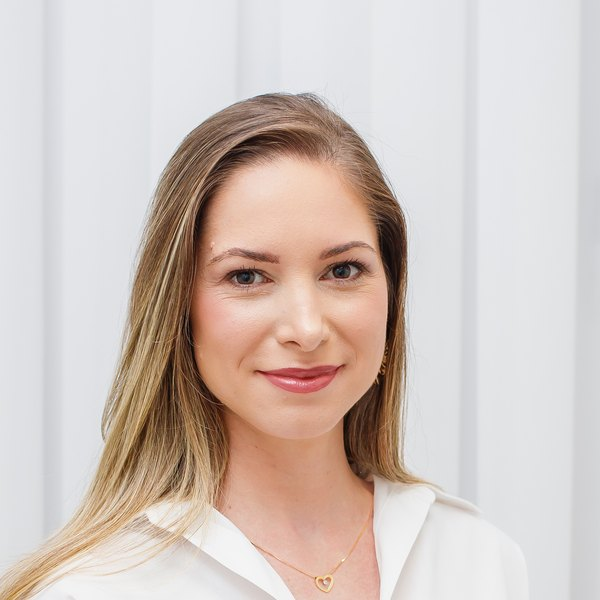
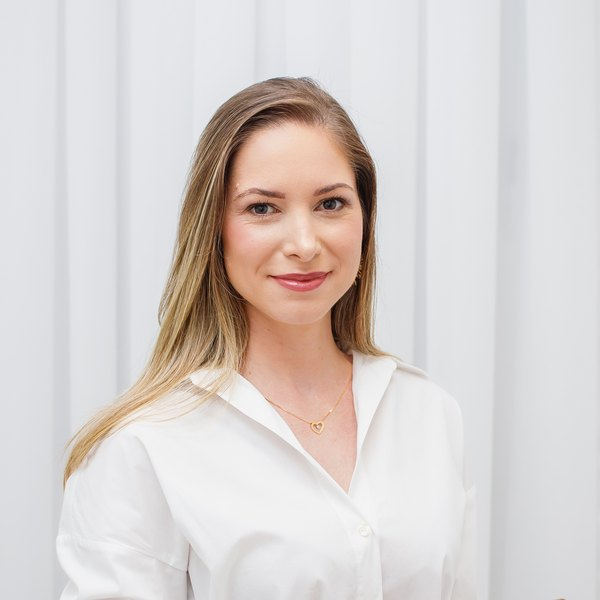
feat(T1): enquadramento mais aberto da foto e toque avanca direto
Foto: recorte de 2000px pra 2800px sobre o original — entram ombros e a
camisa, em vez do rosto ocupando o circulo inteiro. Segue 600x600 no
arquivo final (32 KB, ficou ate menor: menos detalhe de pele por pixel).

Eco removido da T1: tocar numa faixa de idade agora vai direto pra
proxima tela, sem a frase de auto-relevancia no meio. Sai tambem a copy
`echo` das opcoes da T1 (virou texto morto), a classe .echo-in do CSS e
o ramo de 1,5s do timer — sobrou um delay de 300ms, que nao e espera: e
o tempo de a opcao acender antes da tela trocar, senao o toque parece
erro de clique. O eco das telas de dentro (SelectScreen) segue intacto.

Conferido em iframe de largura real: 180ms apos o toque nao ha eco na
tela, e em 600ms a resposta esta gravada (answers[1]) e o quiz ja esta
na T3.

diff --git a/src/components/quiz/screens/LandingScreen.tsx b/src/components/quiz/screens/LandingScreen.tsx
@@ -73,9 +73,6 @@ export function LandingScreen({
   const options = content.options ?? [];
   const selected =
     clicked ?? (restore && onLanding ? (stored ?? null) : null);
-  const echo = selected
-    ? (options.find((o) => o.id === selected)?.echo ?? null)
-    : null;
 
   function choose(opt: Option) {
     if (clicked) return; // trava toque duplo enquanto o eco está na tela
@@ -94,15 +91,10 @@ export function LandingScreen({
       if (useQuiz.getState().index === 0) next();
     };
 
-    const reduced = prefersReduced();
-    if (opt.echo) {
-      // micro-recompensa de auto-relevância antes de avançar. Mais curta que a
-      // das telas de dentro (1,5s vs 2,1s): aqui é o primeiro toque da pessoa,
-      // e o que mais importa nesse ponto é a sensação de andar.
-      window.setTimeout(advance, reduced ? 500 : 1500);
-    } else {
-      window.setTimeout(advance, reduced ? 120 : 380);
-    }
+    // Toque → próxima tela, sem texto no meio. O delay curto não é espera: é o
+    // tempo de a opção acender e o toque virar resposta na cabeça de quem
+    // clicou. Sem ele a tela troca antes do dedo sair e parece erro de clique.
+    window.setTimeout(advance, prefersReduced() ? 120 : 300);
   }
 
   return (
@@ -181,16 +173,6 @@ export function LandingScreen({
             })}
           </div>
         </div>
-
-        {/* eco de auto-relevância depois da escolha */}
-        {echo && (
-          <p className="echo-in mt-4 flex max-w-md items-start gap-2 rounded-2xl bg-white/[0.06] px-4 py-3 text-left font-serif text-[0.95rem] italic leading-snug text-rose-suave">
-            <span className="not-italic text-rose" aria-hidden>
-              ✓
-            </span>
-            {echo}
-          </p>
-        )}
       </div>
     </div>
   );

diff --git a/src/lib/screens.ts b/src/lib/screens.ts
@@ -49,27 +49,13 @@ export const SCREENS: Screen[] = [
       subhead:
         "Responde as próximas perguntas e eu monto o seu caminho de volta ao prazer. Menos de 2 minutos, só entre nós, suas respostas são privadas.",
       prompt: "Vamos começar. Me conta primeiro: qual a sua idade?",
+      // Sem `echo` aqui de propósito (02/08): na T1 o toque avança direto, sem
+      // texto no meio. O eco das telas de dentro continua funcionando normal.
       options: [
-        {
-          id: "29-",
-          label: "Menos de 29",
-          echo: "Antes dos 29, o desejo raramente vem pronto, ele é aprendido. Dá pra começar certo.",
-        },
-        {
-          id: "29-39",
-          label: "29 a 39",
-          echo: "Entre 29 e 39, o desejo costuma travar no acúmulo: rotina, cobrança, cabeça cheia.",
-        },
-        {
-          id: "40-49",
-          label: "40 a 49",
-          echo: "Dos 40 aos 49 o desejo não morre, ele é silenciado. Faz sentido você estar aqui.",
-        },
-        {
-          id: "50+",
-          label: "50 ou mais",
-          echo: "Aos 50+, ninguém te disse, mas o tesão não tem prazo de validade. Tem é camada por cima.",
-        },
+        { id: "29-", label: "Menos de 29" },
+        { id: "29-39", label: "29 a 39" },
+        { id: "40-49", label: "40 a 49" },
+        { id: "50+", label: "50 ou mais" },
       ],
     },
   },

diff --git a/src/app/globals.css b/src/app/globals.css
@@ -197,12 +197,6 @@ body {
   animation: reveal-up 0.55s var(--ease-diary) both;
 }
 
-/* Eco de auto-relevância da T1 (mesma entrada do eco das telas de dentro, que
-   lá é feito com Framer — aqui é CSS pra não trazer o Framer pro caminho crítico) */
-.echo-in {
-  animation: reveal-up 0.45s var(--ease-diary) both;
-}
-
 /* Scrollbar discreta */
 ::-webkit-scrollbar {
   width: 8px;
@@ -221,8 +215,7 @@ body {
   .cta-pulse,
   .bob,
   .wave-anim,
-  .landing-reveal,
-  .echo-in {
+  .landing-reveal {
     animation: none !important;
   }
   .grain::after {
